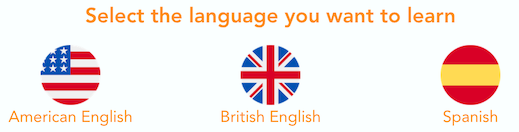
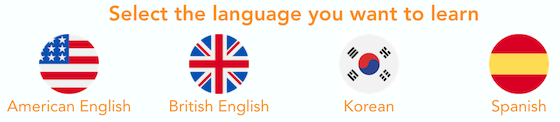
added Korean

diff --git a/src/views/Home.vue b/src/views/Home.vue
@@ -1,12 +1,15 @@
 <template>
-    <div class=modal v-if="showHowTo">
-      <div class="modal-content">        
-        <HowTo />
+    <div class=modal v-if="showModal">
+      <div class="modal-content">     
+        <span @click="closeModal()" class="float-right text-lg cursor-pointer mr-1">&times;</span>   
+        <HowTo v-if="showHowTo" />
+        <ComingNext v-if="showComingNext" />
 
-          <div style="text-align:center;">
-            <a href="#" @click="closeDisplayHowTo()" class="bg-purple-700 hover:bg-purple-500 text-white font-bold py-2 px-4 rounded" :key="$route.fullPath">{{ $t("PlayNow") }}</a>
-          </div>
-          <br>
+        <button @click="closeModal()" class="mt-2 bg-transparent hover:bg-blue-500 text-blue-700 font-semibold hover:text-white py-1 px-4 border border-blue-500 hover:border-transparent rounded">
+                  {{ $t("Close") }}
+        </button>
+        <br><br>
+
       </div>  
     </div> 
 
@@ -41,10 +44,17 @@
           </div>
           <div>
           <figure>
-            <img id="en_uk" class=flag src="images/languages/es_es.png" @click="selectLanguage('es_es')" />
+            <img id="kr_kr" class=flag src="images/languages/kr_kr.png" @click="selectLanguage('kr_kr')" />
+              <figcaption @click="selectLanguage('kr_kr')">{{ $t('Korean') }}</figcaption>
+          </figure>
+          </div>
+          <div>
+          <figure>
+            <img id="es_es" class=flag src="images/languages/es_es.png" @click="selectLanguage('es_es')" />
               <figcaption @click="selectLanguage('es_es')">{{ $t('spanish') }}</figcaption>
           </figure>
           </div>
+
         </div>        
         <br><hr><br>
         <div class="app" v-show="displayAppLink">
@@ -103,7 +113,7 @@
   }
   #selectLanguage > div {
     margin: 1vh auto;
-    width: 33%;
+    width: 25%;
   }
 
   #selectLanguage img {
@@ -163,18 +173,22 @@
 <script lang="ts">
 import { Options, Vue } from "vue-class-component";
 import HowTo from "../components/HowTo.vue";
+import ComingNext from "../components/ComingNext.vue";
 import { get } from "../helpers/http";
 import router from "../router";
 
 @Options({
     components: {
-     HowTo
+     HowTo,
+     ComingNext
   }
 })
 
 export default class Home extends Vue {
   protected displayAppLink: boolean = true as boolean;
+  protected showModal: boolean = false as boolean;
   protected showHowTo: boolean = false as boolean;
+  protected showComingNext: boolean = false as boolean;
 
   async created(): Promise<void> {
     if(localStorage.getItem('app-version') == 'true') {
@@ -191,10 +205,17 @@ export default class Home extends Vue {
     router.push("choose-object");
   }
   viewHowTo(): void {
+    this.showModal = true;
     this.showHowTo = true;
   }
-  closeDisplayHowTo(): void {
+  viewNextLanguage(): void {
+    this.showModal = true;
+    this.showComingNext = true;
+  }
+  closeModal(): void {
+    this.showModal = false;
     this.showHowTo = false;
+    this.showComingNext = false;
   }
 }
 </script>

diff --git a/src/components/ComingNext.vue b/src/components/ComingNext.vue
@@ -1,0 +1,48 @@
+<template>
+  <div id="comingnext">
+    <h1 class="text-center text-4xl mt-2 mb-2">{{ $t("StayInformed") }}</h1>
+    
+    <div id="content" style="text-align: center;">    
+      <br>  
+      <p class=signup><a href="https://twitter.com/AskLingua" target="_blank">{{ $t("Twitter") }}</a> {{ $t("or" )}}
+      <a href="https://asklingua.us20.list-manage.com/subscribe?u=33a92fb170de7e1d490b68911&id=39ff1526de" target="_blank">{{ $t("Newsletter") }}.</a></p>
+
+    </div>
+  </div>
+</template>
+
+<style>
+ #about img {
+   border-color: #EEEEEE;
+   border-width: 1px;
+   border-style: solid;
+ }
+
+ #comingnext {
+    max-width: 800px;
+    margin: 2vh auto;
+    border-radius: 25px;
+    color: #A52A2A;
+    padding-bottom: 1vh;
+    max-height: 300px;
+  }
+
+  .modal #content {
+    text-align: left;
+    line-height: 1.2rem;
+  }
+
+  h2 {
+    font-size: 2rem;
+    font-weight: bold;
+  }
+</style>
+
+<script lang="ts">
+import { defineComponent } from "vue";
+
+
+export default defineComponent({
+  name: "ComingNext",
+});
+</script>

diff --git a/src/helpers/translate.ts b/src/helpers/translate.ts
@@ -7,6 +7,10 @@ export function translate(transVariable: string, lang: string): string {
     translation["whatIsYourName"] = "¿Cómo te llamas?";
     translation["IAmLingua"] = "Hola, soy Lingua";
   }
+  else if (lang === "kr") {
+    translation["whatIsYourName"] = "이름이 뭐에요?";
+    translation["IAmLingua"] = "저는 링구아라고 해요.";
+  }
   else {
     translation["whatIsYourName"] = "What is your name?";
     translation["IAmLingua"] = "Hi, I'm Lingua";

diff --git a/src/components/About.vue b/src/components/About.vue
@@ -1,5 +1,5 @@
 <template>
-  <div id="about">
+  <div id="aboutpage">
     <h1 class="text-center text-4xl mt-2 mb-2">{{ $t("AboutAskLingua") }}</h1>
     
     <div id="content">
@@ -39,12 +39,13 @@ a {
   text-decoration: underline;
 }
 
- #about {
+ #aboutpage {
     max-width: 800px;
     margin: 2vh auto;
     border-radius: 25px;
     color: #A52A2A;
     padding-bottom: 5vh;
+    max-height: 400px;
   }
 
   .modal #content {

diff --git a/src/App.vue b/src/App.vue
@@ -1,6 +1,7 @@
 <template>
   <div id=modal class=modal v-if="showModal">
     <div class="modal-content">        
+      <span @click="closeModal()" class="float-right text-lg cursor-pointer mr-1">&times;</span>
       <terms-privacy v-if="showTermsPrivacy" />
       <about v-if="showAbout" />
 
